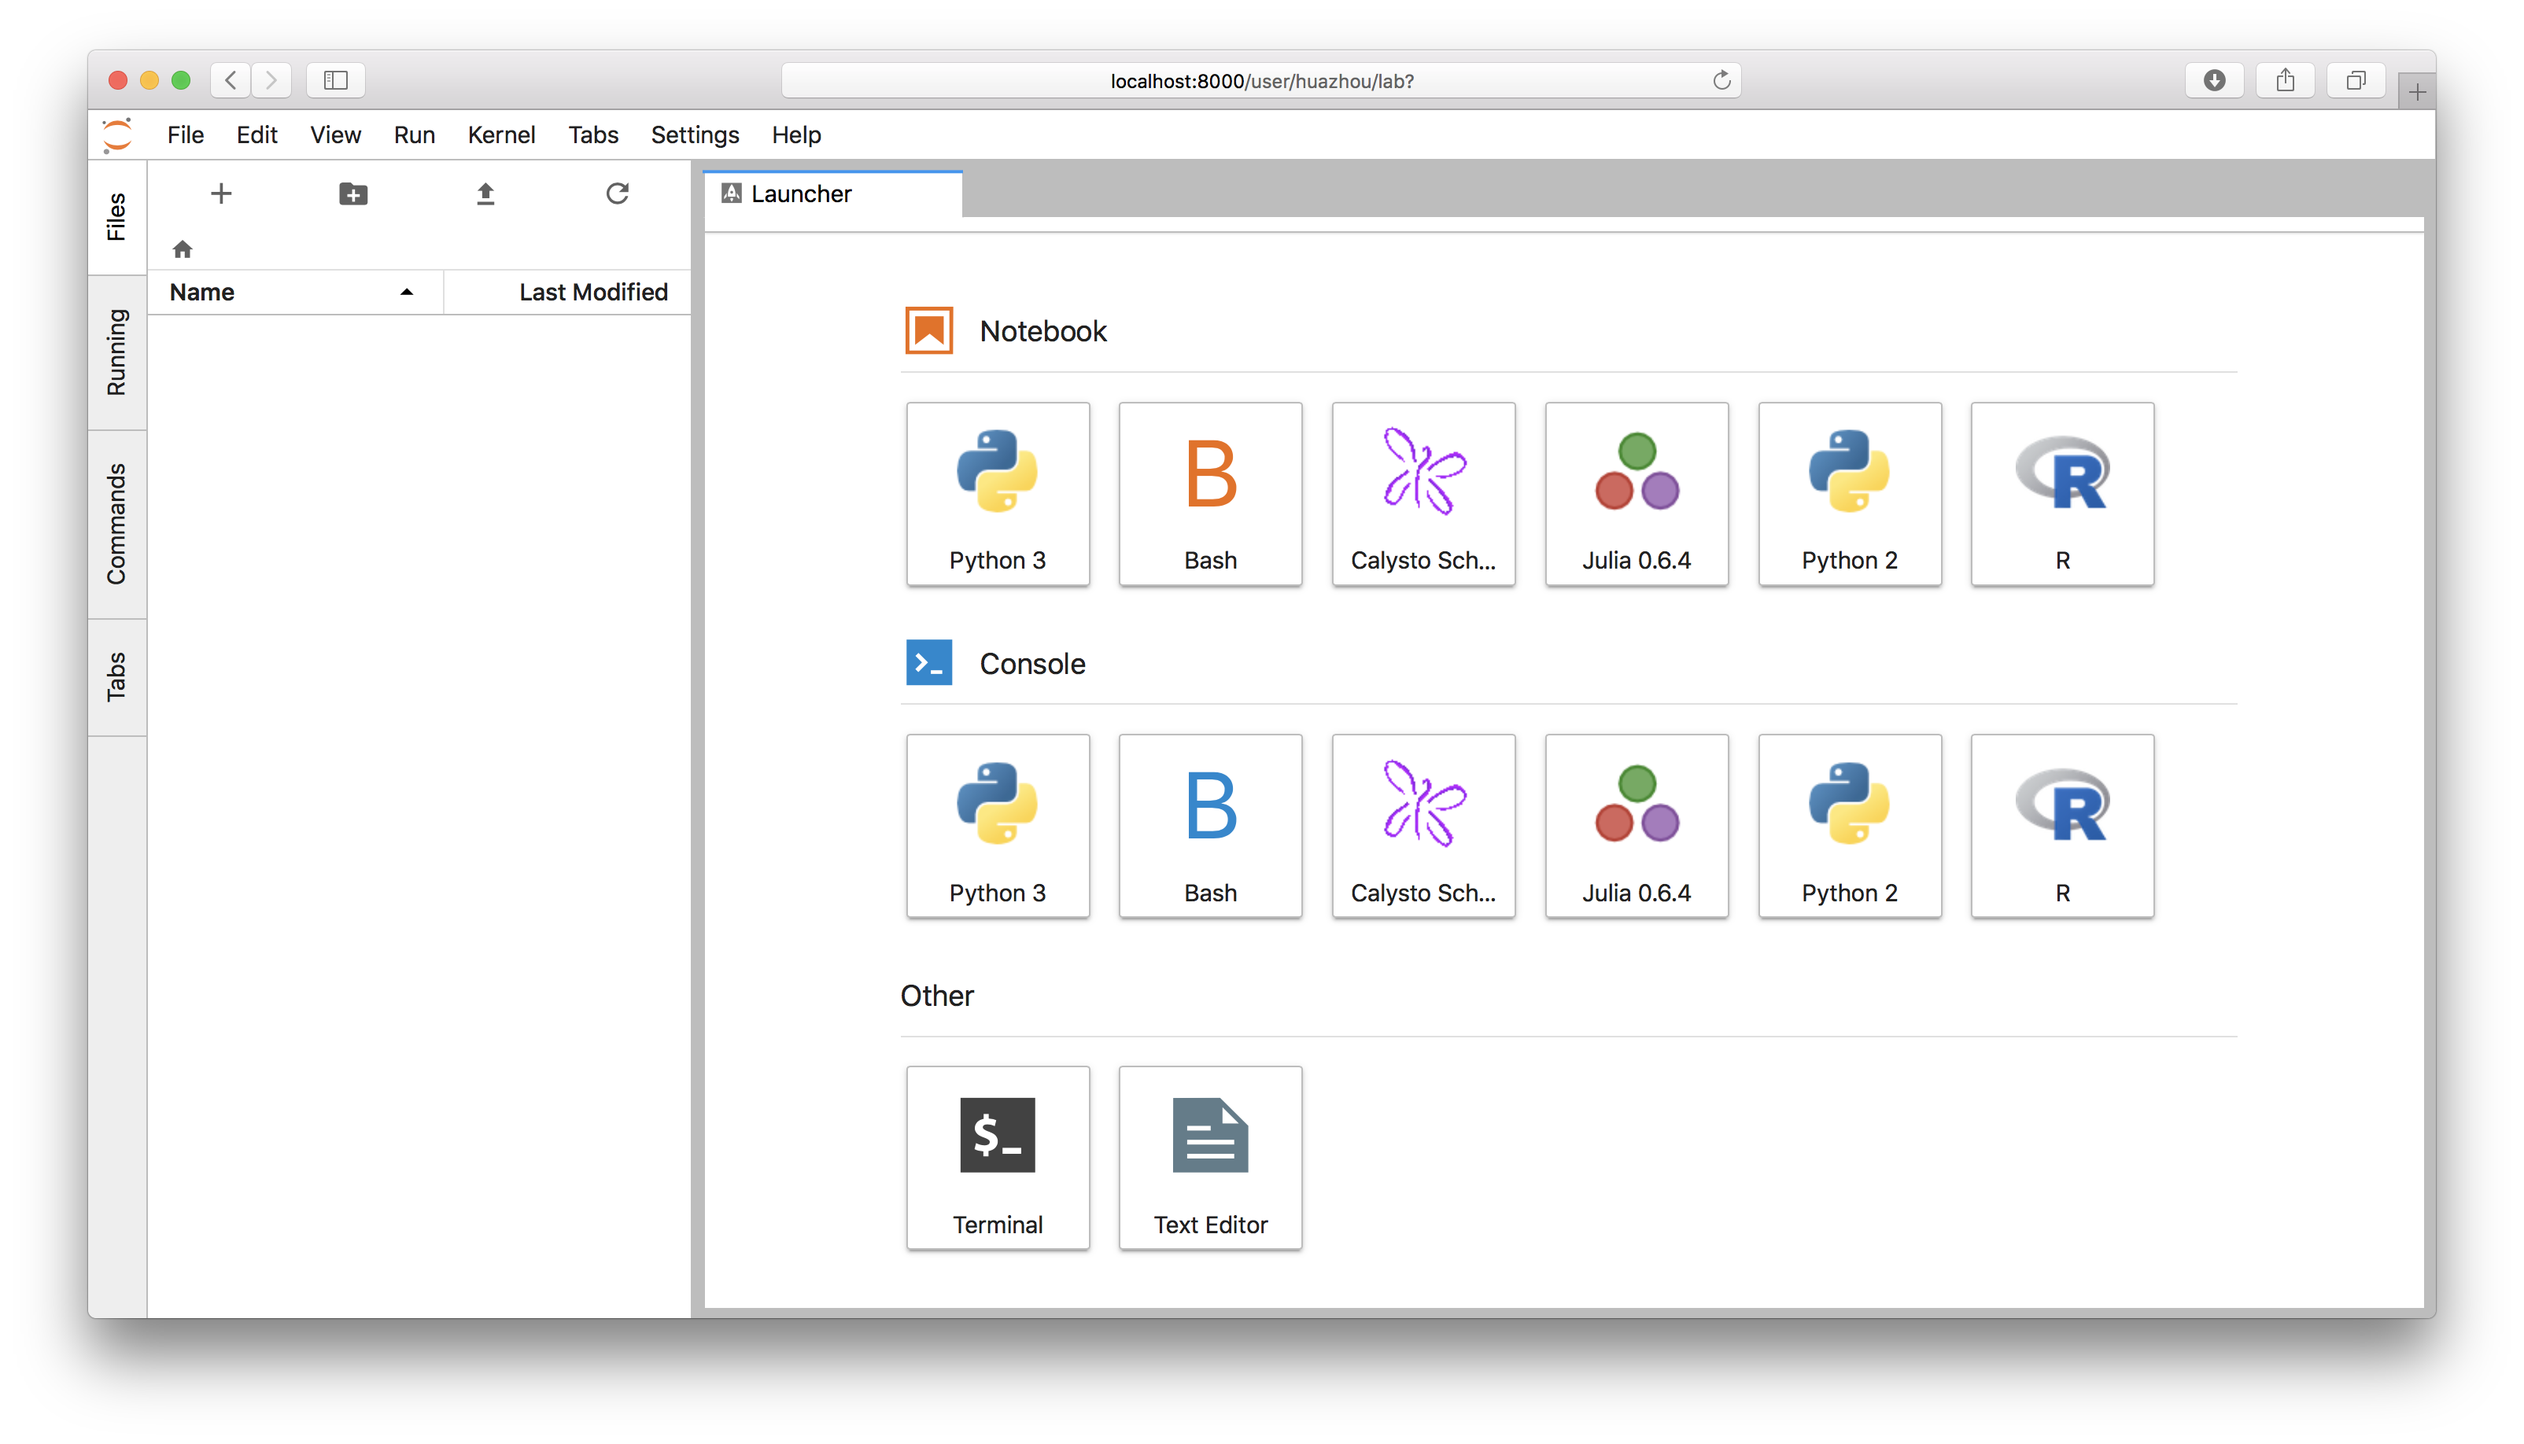
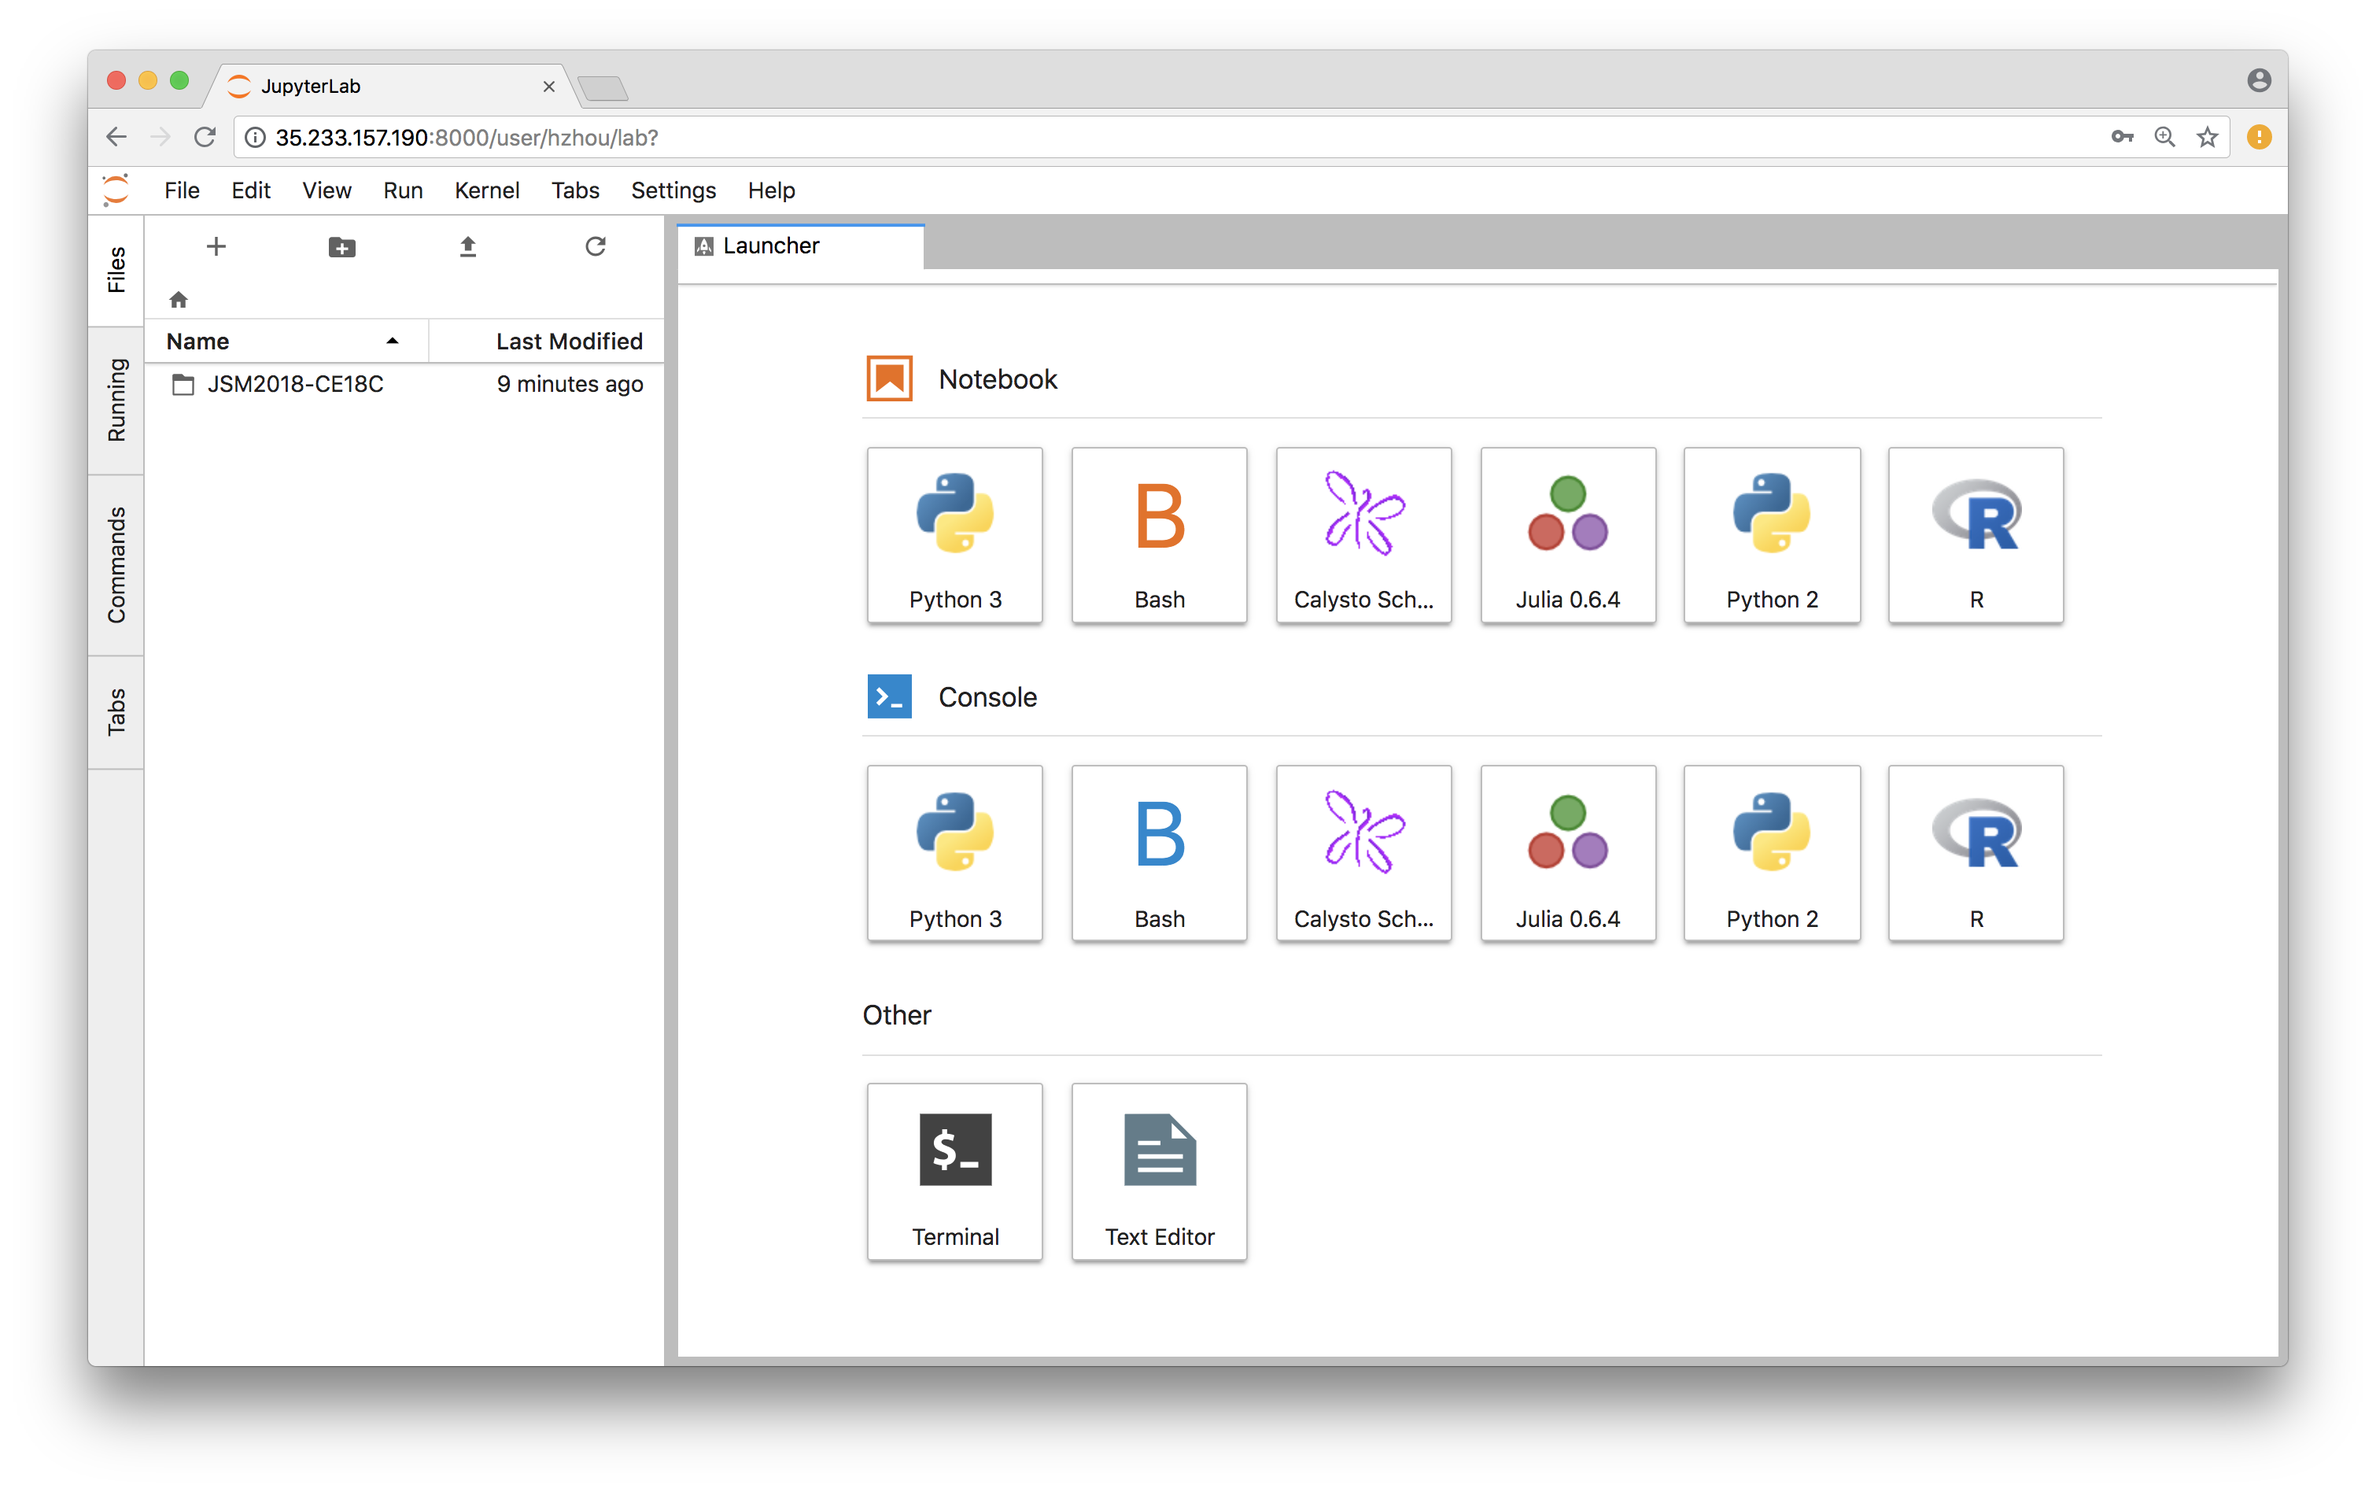
update ip address for the server

diff --git a/README.md b/README.md
@@ -35,7 +35,7 @@ There are several ways to run Jupyter notebooks in this course.
 
 The **easiest** way is to run Jupyter notebooks on a server dedicated to this course.  
 
-1. Point your browser to [123.45.67.89:8000](123.45.67.89:8000).  
+1. Point your browser to [http://35.233.157.190:8000/](http://35.233.157.190:8000/).  
 
 2. You'll be greeted by a JupyterHub login page:  
 ![](./jupyterlab_login.png)
